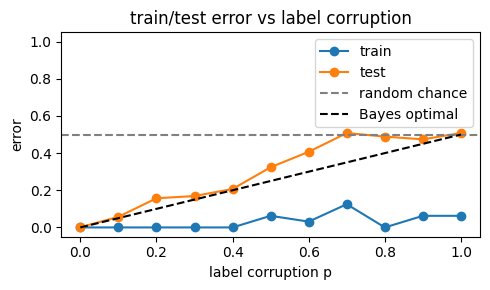
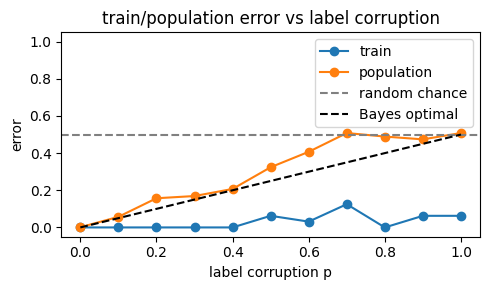
Add TLDR, test error -> population error, define Bayes error

Changed region(s): [[0.1837, 0.031, 0.8878, 0.0931], [0.7347, 0.2172, 0.8878, 0.2793]]

diff --git a/assets/style.css b/assets/style.css
@@ -217,3 +217,29 @@ details.details[open] > *:not(summary){
     border-top-color: rgba(255,255,255,.12);
   }
 }
+
+
+.tldr{
+  background: rgba(var(--card), var(--alpha));
+  border: 1px solid rgba(255,255,255,.22);
+  border-radius: 18px;
+  padding: 14px 16px;
+  margin: 18px 0 26px 0;
+  backdrop-filter: saturate(180%) blur(18px);
+  -webkit-backdrop-filter: saturate(180%) blur(18px);
+  font-size: .95rem;
+  line-height: 1.5;
+}
+
+.tldr strong{
+  display:block;
+  margin-bottom:6px;
+  font-weight:600;
+  letter-spacing:.02em;
+}
+
+@media (prefers-color-scheme: dark){
+  .tldr{
+    border-color: rgba(255,255,255,.16);
+  }
+}

diff --git a/_posts/2026-02-16-post-1.md b/_posts/2026-02-16-post-1.md
@@ -7,9 +7,17 @@ categories: blog
 slug: data-dependence-generalization
 ---
 
-This post is about generalization in machine learning: 
-why test error can differ from train error, 
-and why data matters in understanding that gap.
+<div class="tldr">
+  <strong>TL;DR.</strong>
+  If a generalization bound does not depend on the data, 
+  it must hold for all datasets. 
+  But there exist datasets with random labels 
+  where training error is zero and population error is as bad as random guessing.
+  Therefore the bound must allow error as large as random guessing 
+  for every dataset, and is uninformative. 
+</div>
+
+This post illustrates this point in one dimension. 
 The next paragraph briefly recalls what “generalization” refers to. 
 Feel free to skip to the first heading if it is already familiar.
 
@@ -22,17 +30,17 @@ You hope the same settings work every time.
 The fraction of cakes you dislike *among those you tried* is the **train error**. 
 But what you care about is different: 
 how many cakes will you dislike *in the future* if you keep using these settings? 
-That quantity is the **test error**.
-You cannot observe it directly.
+You cannot observe it directly. It is the **population error**, 
+the expected error rate over future independent attempts at baking a cake with these fixed settings. 
 
-Generalization is about understanding when and why test error stays close to train error.
+Generalization is about understanding when and why population error stays close to train error.
 
 {::nomarkdown}
 $$
 {\small
 \begin{aligned}
-\text{generalization gap} &= \text{test error} - \text{train error}\\
-&= \text{error on future inputs} - \text{error on inputs used to adjust the settings}
+\text{generalization gap} &= \text{population error} - \text{train error}\\
+&= \text{expected error on independent future inputs} - \text{observed error on inputs used to adjust the settings}
 \end{aligned}
 }
 $$
@@ -47,17 +55,17 @@ This intuition is typically formalized by defining complexity measures and deriv
 
 {::nomarkdown}
 $$
-\text{test error} \;\le\; \text{train error} + \text{complexity(model, data, optimizer)}
+\text{population error} \;\le\; \text{train error} + \text{complexity(model, data, optimizer)}
 $$
 {:/nomarkdown}
 
-The goal here is not to certify test error.
+The goal here is not to certify population error.
 In practice, we use held-out test sets for that. 
-(If data is i.i.d., then concentration bounds guarantee that empirical test error {::nomarkdown}$\approx${:/nomarkdown} population test error with high probability).
+(If data is i.i.d., then concentration bounds guarantee that empirical test error  {::nomarkdown}$\approx${:/nomarkdown} population error with high probability).
 
 Generalization bounds aim at something different: 
 they try to explain why generalization happens.
-They are not meant to replace test error estimation, 
+They are not meant to replace population error estimation, 
 but to understand its underlying mechanism. 
 If we knew which property of the learning setup explains generalization, 
 we could try to promote it, or at least understand when to expect good performance.
@@ -123,15 +131,15 @@ As $p$ increases, the function must oscillate more and more to fit the training 
 Each hidden unit introduces one breakpoint: $x \mapsto \sigma(wx + b)$ changes slope at $-b/w$.
 
 We aim to train until near interpolation,
-so the generalization gap is simply the test error. 
+so the generalization gap is simply the population error. 
 
-What should the test error be?
+What should the population error be?
 
 On the {::nomarkdown}$p${:/nomarkdown} fraction of corrupted labels:
 nothing beats random guessing, and population error there should be $1/2$.
 On the {::nomarkdown}$1-p${:/nomarkdown} fraction of clean labels: 
 the sign function is optimal, with error $0$. 
-So the best possible test error we can observe is:
+So the best possible population error we can observe, called Bayes error, is:
 
 {::nomarkdown}
 $$
@@ -155,7 +163,7 @@ rng_xte = np.random.default_rng(5)     # different RNGs for train/test/corruptio
 rng_ytr = np.random.default_rng(6)
 rng_yte = np.random.default_rng(7)
 
-n_train, n_test = 32, 1000 # n_test large enough to sample [-1,1] with high resolution and get accurate test error estimate
+n_train, n_test = 32, 1000 # n_test large enough to sample [-1,1] with high resolution and get accurate population error estimate
 width = 1024  # wide enough to interpolate at p=1 (n_train << width)
 ps = np.linspace(0, 1.0, 11) # label corruption levels to sweep over
 
@@ -215,12 +223,12 @@ for p in ps:
 
 plt.figure(figsize=(5,3))
 plt.plot(ps, train_err, "o-", label="train")
-plt.plot(ps, test_err, "o-", label="test")
+plt.plot(ps, test_err, "o-", label="population")
 plt.axhline(0.5, ls="--", color="gray", label="random chance")
 plt.plot(ps, ps/2, "k--", label="Bayes optimal")  # Bayes error = p/2
 plt.xlabel("label corruption p")
 plt.ylabel("error")
-plt.title("train/test error vs label corruption")
+plt.title("train/population error vs label corruption")
 plt.ylim(-0.05, 1.05)
 plt.legend()
 plt.tight_layout()
@@ -229,17 +237,17 @@ plt.show()
 
 ---
 
-## what happens: model fits everything, test error depends on data
+## what happens: model fits everything, population error depends on data
 
 We obtain the next plot.
 
-![train/test error vs label corruption]({{ "/assets/images/post-1/data_dependence_1d_results.png" | relative_url }})
+![train/population error vs label corruption]({{ "/assets/images/post-1/data_dependence_1d_results.png" | relative_url }})
 
 
 Two observations:
 
 - train error is near 0 for all {::nomarkdown}$p${:/nomarkdown}: the model fits everything, even pure noise;
-- test error tracks the Bayes error {::nomarkdown}$p/2${:/nomarkdown}. 
+- population error tracks the Bayes error {::nomarkdown}$p/2${:/nomarkdown}. 
 
 Same model, same optimizer, but different data leads to different generalization.
 
@@ -255,23 +263,30 @@ Suppose a bound of the form:
 
 {::nomarkdown}
 $$
-\text{test error} \le \text{train error} + \text{complexity(model, data, optimizer)}.
+\text{population error} \le \text{train error} + \text{complexity(model, data, optimizer)}.
 $$
 {:/nomarkdown}
 
-Suppose the complexity measure does **not** depend on the data. 
+Suppose the complexity measure does **not** depend on the labels. 
+Then it must upper bound the generalization gap for all possible label assignments, including completely corrupted ones. 
+But in that case, no model can beat random guessing. 
+Because the complexity term does not depend on the labels, once it is forced to be at least 1/2 in the fully corrupted case, it is at least 1/2 for every dataset. 
+The bound is therefore uninformative. 
+Let us see this in more detail.
+
 From the experiment we have:
 
 {::nomarkdown}
 $$
 \text{gap} =
-\text{test error} - \text{train error} \approx p/2 - 0 = p/2
+\text{population error} - \text{train error} \approx p/2 - 0 = p/2
 $$
 {:/nomarkdown}
 
 for all {::nomarkdown}$p${:/nomarkdown}.
 If the complexity term is independent of {::nomarkdown}$p${:/nomarkdown},
-it must bound this gap from above for {::nomarkdown}$p=1${:/nomarkdown}.
+it must bound this gap from above for {::nomarkdown}$p=1${:/nomarkdown}. 
+In other words, it must work even when the labels are completely random. 
 That implies:
 
 {::nomarkdown}
